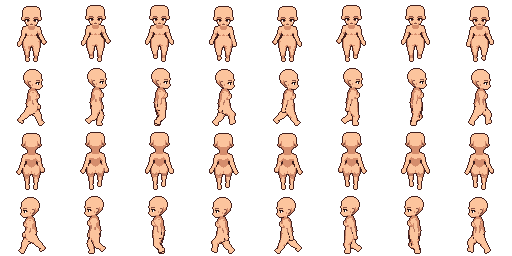
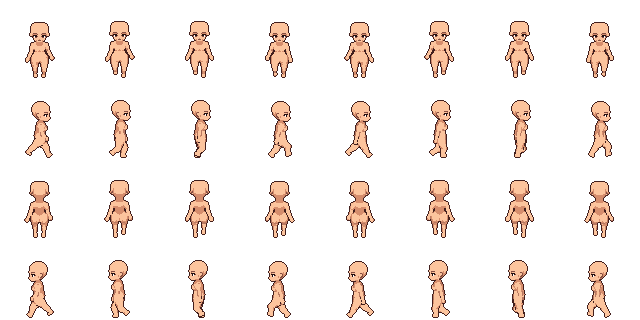
arte(maniquí): caminata e idle en lienzo 80

diff --git a/art/source/maniqui_op15/3d/anim/manos.py b/art/source/maniqui_op15/3d/anim/manos.py
@@ -1,24 +1,32 @@
 # Mano fuera de la cadera en S/N: distancia (px) del marcador de la mano al borde de la cadera del reposo en su fila
 # Hand outside the hips in S/N: px from the hand marker to the rest pose's hip edge on that row
+#   python -I manos.py <carpeta del render de caminar> <hoja del reposo (rig3d cuadros ... reposo), mismo lienzo>
 import json, sys
 import numpy as np
 from PIL import Image
-#   python -I manos.py <carpeta del render de caminar> <hoja del reposo (rig3d cuadros ... reposo)>
+
 rest = np.array(Image.open(sys.argv[2]))[..., 3] > 0
-def borde(r, y):
-    # Tramo central (con x 31) de la fila y del reposo / central run (containing x 31) of rest row y
-    row = rest[r * 64 + y]; a = b = 31
-    while a > 0 and row[a - 1]: a -= 1
-    while b < 63 and row[b + 1]: b += 1
-    return a, b
+N = rest.shape[0] // 4  # lienzo del reposo (4 filas de dirección) / rest canvas (4 direction rows)
+EJE = N // 2 - 1  # columna del eje (31 en 64, 39 en 80) / axis column
 d = sys.argv[1]; m = json.load(open(f"{d}/maniqui_op15_caminar_marcadores.json"))
+assert json.load(open(f"{d}/maniqui_op15_caminar.json"))["cell"][0] == N, "reposo y caminata en lienzos distintos / canvas mismatch"
+
+
+def borde(r, y):
+    # Tramo central (con la columna del eje) de la fila y del reposo / central run (with the axis column) of rest row y
+    row = rest[r * N + y]; a = b = EJE
+    while a > 0 and row[a - 1]: a -= 1
+    while b < N - 1 and row[b + 1]: b += 1
+    return a, b
+
+
 for r, dn in ((0, "south"), (2, "north")):
     out = []
     for i in range(8):
         mk = m[f"caminar_{dn}_{i}"]["marcadores"]
         vals = []
         for s in "LR":
-            x, y = mk[f"mano_{s}"]; a, b = borde(r, min(int(round(y)), 63))
-            vals.append(round(a - x if x < 31 else x - b, 1))
+            x, y = mk[f"mano_{s}"]; a, b = borde(r, min(int(round(y)), N - 1))
+            vals.append(round(a - x if x < EJE else x - b, 1))
         out.append(vals)
     print(dn, "px fuera de la cadera (L,R):", out, "min", min(min(v) for v in out))

diff --git a/art/source/maniqui_op15/3d/anim/caminar_mocap_gen.py b/art/source/maniqui_op15/3d/anim/caminar_mocap_gen.py
@@ -269,7 +269,7 @@ def build():
     frames += [mirror(f) for f in frames]
     frames = por_direccion(frames)
     for f in frames: f.pop("_apoyo"); f.pop("_i")
-    return {"nombre": "caminar", "bucle": True, "lienzo": 64, "margen_suela": 2, "pixel_pantalla": True,
+    return {"nombre": "caminar", "bucle": True, "lienzo": 80, "margen_suela": 2, "pixel_pantalla": True,
             "duraciones_ms": [MS] * len(frames), "velocidad_px_s": SPEED, "espejar_oeste": True, "espejar_ciclo": True,
             "cabeza_fija": ["east"],  # la cabeza de perfil no tiembla (limpieza de rig3d) / steady profile head
             "cuadros": frames,
